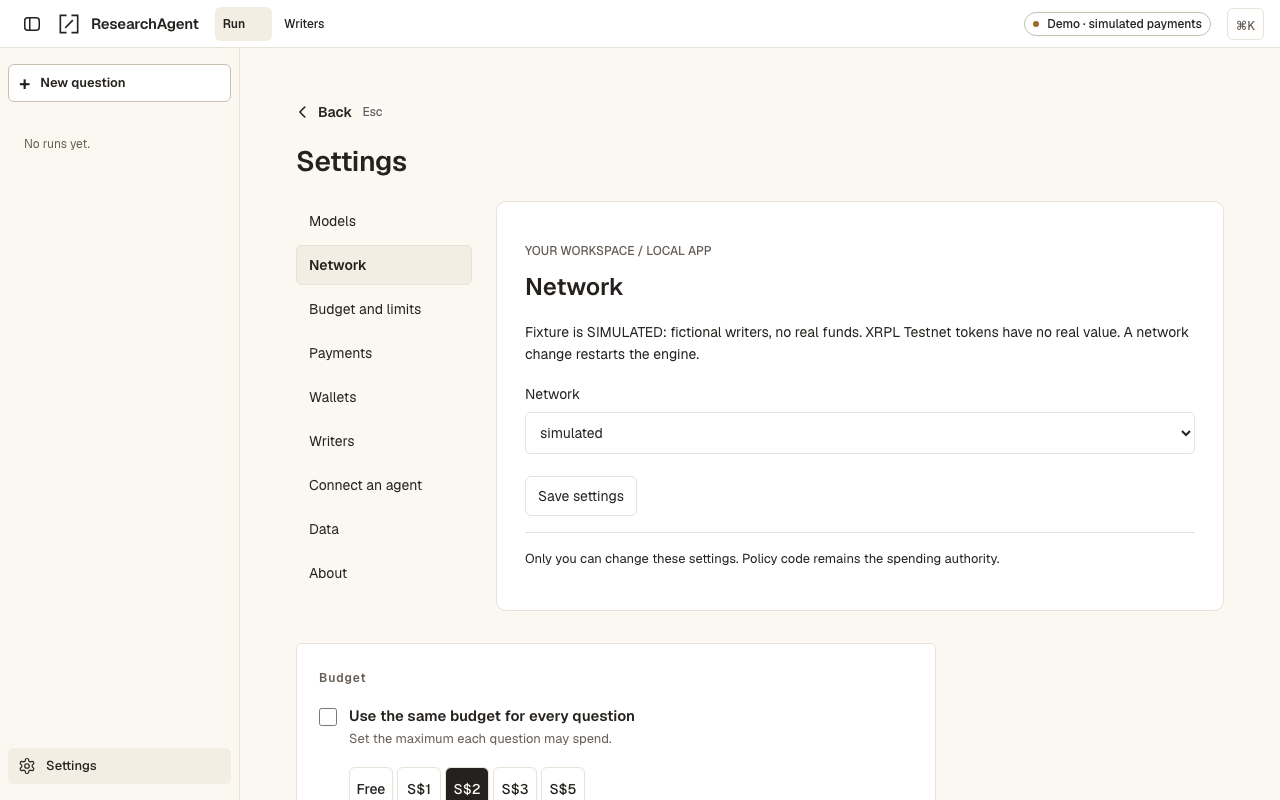
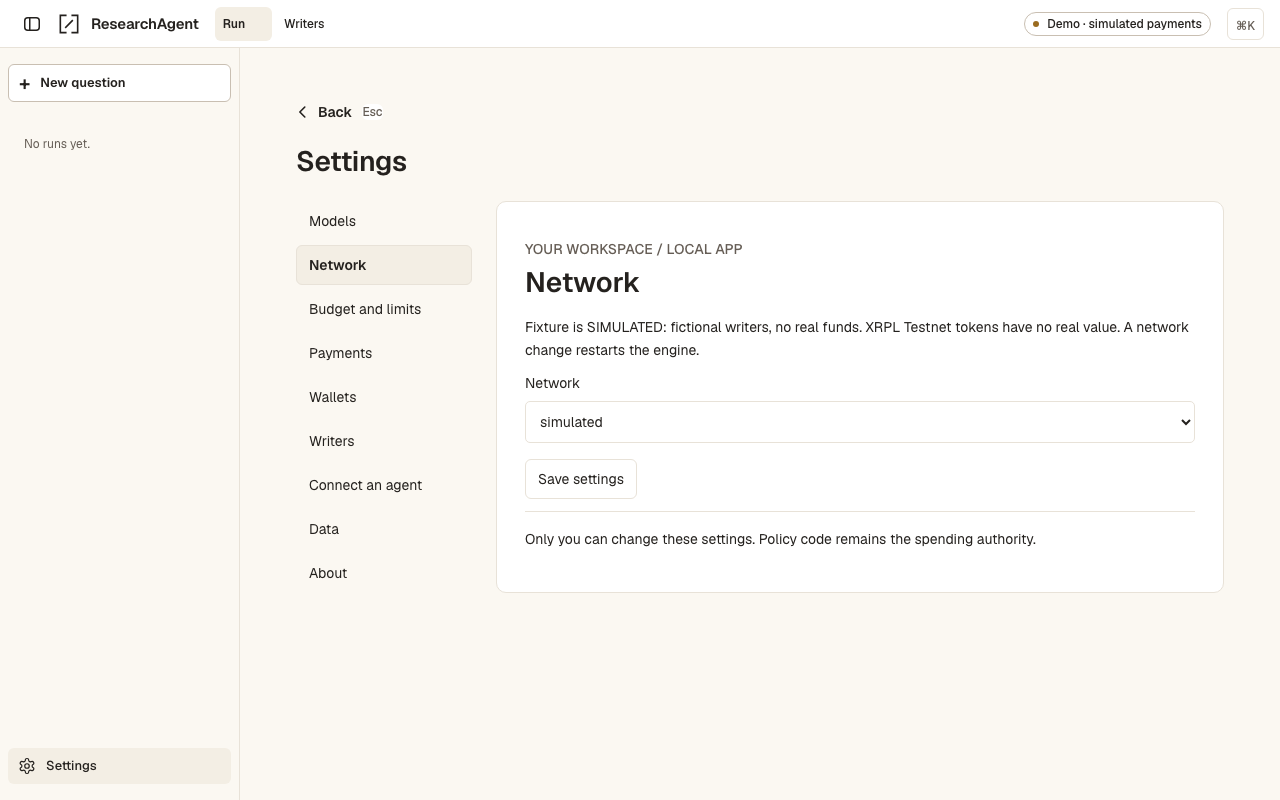
Verify shared Settings accessibility and owner audit integration

diff --git a/src/components/OwnerSettings.tsx b/src/components/OwnerSettings.tsx
@@ -1,14 +1,16 @@
 import { useEffect, useState, type ReactNode } from 'react'
 
 type Values = Record<string, string | number>
+type WalletRow = {name?:string; role?:string; address:string; balanceDrops?:string | null}
+type WriterRow = {name:string; address?:string; credential?:{status:string}}
 type Agent = {id:string; name:string; paused?:boolean; revoked?:boolean}
 type Desktop = { agents(): Promise<{agents:Agent[]}>; agentCreate(name:string,max:number,daily:number): Promise<unknown>; agentControl(id:string,op:string): Promise<unknown>; agentCopy(id:string): Promise<unknown>; state(): Promise<Record<string, unknown>>; save(v: unknown): Promise<void>; presence(a: string): Promise<{present: boolean | null; available: boolean}>; secret(a: string,v: string): Promise<{saved: boolean}>; test(): Promise<unknown>; wallets(): Promise<unknown>; receipts(id: string): Promise<unknown>; exportData(): Promise<unknown>; reset(c: string): Promise<void>; updates(): Promise<void> }
 const native = (window as unknown as { desktop?: Desktop }).desktop
 const sections = ['Models', 'Network', 'Budget and limits', 'Payments', 'Wallets', 'Writers', 'Connect an agent', 'Data', 'About']
 const keys = { LLM_API_KEY: 'compatible', DEEPSEEK_API_KEY: 'deepseek', OPENAI_API_KEY: 'openai', CLOUDFLARE_API_TOKEN: 'cloudflare', CLOUDFLARE_ACCOUNT_ID: 'cloudflare-account' }
 const repo = 'https://github.com/Collaboration95/theFastandtheFungible'
-export default function OwnerSettings({ children }: {children?: ReactNode}) {
-  const [agents,setAgents] = useState<Agent[]>([]), [section, setSection] = useState('Models'), [values, setValues] = useState<Values>({}), [state, setState] = useState<Record<string, unknown>>({}), [csrf, setCsrf] = useState(''), [status, setStatus] = useState('Loading owner settings…'), [presence, setPresence] = useState<Record<string,string>>({}), [account,setAccount] = useState('DEEPSEEK_API_KEY'), [secret,setSecret] = useState(''), [confirm,setConfirm] = useState(''), [receiptRun,setReceiptRun] = useState(''), [ledger,setLedger] = useState('Loading…'), [writers,setWriters] = useState('Loading…')
+export default function OwnerSettings({ children, notifications }: {children?: ReactNode; notifications?: ReactNode}) {
+  const [agents,setAgents] = useState<Agent[]>([]), [section, setSection] = useState('Models'), [values, setValues] = useState<Values>({}), [state, setState] = useState<Record<string, unknown>>({}), [csrf, setCsrf] = useState(''), [status, setStatus] = useState('Loading owner settings…'), [presence, setPresence] = useState<Record<string,string>>({}), [account,setAccount] = useState('DEEPSEEK_API_KEY'), [secret,setSecret] = useState(''), [confirm,setConfirm] = useState(''), [receiptRun,setReceiptRun] = useState(''), [ledger,setLedger] = useState<string | WalletRow[]>('Loading…'), [writers,setWriters] = useState<string | WriterRow[]>('Loading…')
   const onboarding = new URLSearchParams(location.search).has('onboarding')
   const call = async (path = '', body?: unknown) => {
     const response = await fetch('/api/settings' + path, { method: body === undefined ? 'GET' : 'POST', headers: { 'Content-Type': 'application/json', 'X-Settings-CSRF': csrf, 'X-Settings-UI': location.origin }, ...(body === undefined ? {} : {body: JSON.stringify(body)}) })
@@ -25,8 +27,8 @@ export default function OwnerSettings({ children }: {children?: ReactNode}) {
       } else { const s = await call(); if (!alive) return; setState(s); setValues(s.values); setCsrf(s.csrf); setPresence(s.keys) }
       if (alive) setStatus('Only you can change these settings. Policy code remains the spending authority.')
     })().catch(() => { if (alive) setStatus('Settings unavailable. Unlock Keychain or restart the local app, then retry.') })
-    void fetch('/api/ledger').then(r => r.json()).then(v => { if (alive) setLedger(v.rail === 'simulated' ? 'SIMULATED · fixture wallets have no ledger balance' : JSON.stringify(v.wallets, null, 2)) }).catch(() => setLedger('Balances unavailable while the engine recovers.'))
-    void fetch('/api/writers/status').then(r => { if (!r.ok) throw Error(); return r.json() }).then(v => { if (alive) setWriters(JSON.stringify(v.publishers, null, 2)) }).catch(() => setWriters('Writer credential status unavailable. Open Writers after the engine reconnects.'))
+    void fetch('/api/ledger').then(r => r.json()).then(v => { if (alive) setLedger(v.rail === 'simulated' ? 'SIMULATED · fixture wallets have no ledger balance' : v.wallets) }).catch(() => setLedger('Balances unavailable while the engine recovers.'))
+    void fetch('/api/writers/status').then(r => { if (!r.ok) throw Error(); return r.json() }).then(v => { if (alive) setWriters(v.publishers) }).catch(() => setWriters('Writer credential status unavailable. Open Writers after the engine reconnects.'))
     return () => { alive = false }
   // The owner surface loads once; secrets never enter persistent React state after save.
   // eslint-disable-next-line react-hooks/exhaustive-deps
@@ -42,13 +44,13 @@ export default function OwnerSettings({ children }: {children?: ReactNode}) {
     <section className="owner-panel" aria-labelledby="owner-heading"><p className="ra-caption">YOUR WORKSPACE / {native ? 'MACOS KEYCHAIN' : 'LOCAL APP'}</p><h2 id="owner-heading">{section}</h2>
     {section === 'Models' && <>{native && <><label className="owner-field">Research provider<select value={String(state.provider || 'deepseek')} onChange={e=>setState({...state,provider:e.target.value})}>{['deepseek','openai','openai-compatible'].map(p=><option key={p}>{p}</option>)}</select></label>{state.provider === 'openai-compatible' && <><label className="owner-field">API base URL<input value={String(state.baseUrl || '')} onChange={e=>setState({...state,baseUrl:e.target.value})} /></label><label className="owner-field">Model<input value={String(state.model || '')} onChange={e=>setState({...state,model:e.target.value})} /></label><label><input type="checkbox" checked={state.sameKeyDecisions === true} onChange={e=>setState({...state,sameKeyDecisions:e.target.checked})} /> Use compatible advisory decisions (UNCALIBRATED)</label></>}<button onClick={save}>Apply provider profile</button></>}<p>Saved credentials are masked. Keys and seeds never appear in exports or logs.</p><div className="owner-keys">{Object.entries(presence).map(([k,v]) => <p key={k}><b>{k.replaceAll('_',' ')}</b><br/>{v}</p>)}</div><label className="owner-field">Provider<select value={account} onChange={e=>setAccount(e.target.value)}>{Object.keys(keys).map(k=><option key={k}>{k}</option>)}</select></label><label className="owner-field">Replace key<input type="password" autoComplete="new-password" value={secret} onChange={e=>setSecret(e.target.value)} /></label><button disabled={!secret} onClick={()=>{ const value=secret; setSecret(''); action(async()=>{ if(native) { const r=await native.secret(keys[account as keyof typeof keys],value); if(!r.saved) throw Error('Keychain unavailable. Unlock and retry.'); setPresence({...presence,[account]:'••••••••'}) } else { await call('/key',{account,value}); setPresence({...presence,[account]:'••••••••'}) } },native ? 'Key saved in Keychain.' : 'Key saved in the local environment file. Restart to apply.') }}>Save key</button><button onClick={()=>action(async()=>{ if(native) { const r=await native.test() as {ok?:boolean}; if (!r.ok) throw Error('Provider test failed. Check Keychain and provider configuration.'); return } const response = await fetch('/api/providers/test', { method:'POST', headers:{'Content-Type':'application/json'}, body:'{}' }); const result = await response.json(); if (!result.ok) throw Error('Connection failed. Save credentials and restart the app, then retry.'); },'Connection test finished. See the native provider status for details.')}>Test connection</button></>}
     {section === 'Network' && <><p>Fixture is SIMULATED: fictional writers, no real funds. XRPL Testnet tokens have no real value. A network change restarts the engine.</p>{field('SETTLEMENT_RAIL','Network',['simulated','xrpl-testnet'])}</>}
-    {section === 'Budget and limits' && <><p>Human-only limits, in SGD cents. Changes are audited. A budget authorizes policy code to buy within these caps.</p>{field('MCP_MAX_BUDGET_MINOR','Per-call cap')}{field('MCP_DAILY_CAP_MINOR','Daily agent cap')}{field('WALLET_DAILY_CAP_MINOR','Wallet daily cap')}{children}<p>The per-prompt budget remains the authorization for each question.</p></>}
+    {section === 'Budget and limits' && <><p>Human-only limits, in SGD cents. Changes are audited. A budget authorizes policy code to buy within these caps.</p><div className="owner-caps">{field('MCP_MAX_BUDGET_MINOR','Per-call cap')}{field('MCP_DAILY_CAP_MINOR','Daily agent cap')}{field('WALLET_DAILY_CAP_MINOR','Wallet daily cap')}</div>{children}<p>The per-prompt budget remains the authorization for each question.</p></>}
     {section === 'Payments' && <><p>Testnet only · no real money. TEST-SGD is a test issued asset and needs a configured issuer and trustlines.</p>{field('ESCROW_MODE','Escrow mode',['key-reveal','payment'])}{field('ESCROW_ASSET','Escrow asset',['XRP','TEST-SGD'])}{field('ANCHOR_RAIL','Answer anchoring',['xrpl-testnet','off'])}</>}
-    {section === 'Wallets' && <><p>Public addresses and balances only. Seeds stay private.</p><pre>{ledger}</pre><button onClick={()=>action(async()=>{ setLedger(JSON.stringify(native ? await native.wallets() : await call('/faucet',{}),null,2)) },'Testnet faucet request finished.')}>Testnet faucet top-up</button><label className="owner-field">Run to verify<select value={receiptRun} onChange={e=>setReceiptRun(e.target.value)}><option value="">Choose a completed run</option>{((state.runs || []) as {runId:string; question:string}[]).map(r=><option key={r.runId} value={r.runId}>{r.question}</option>)}</select></label><button disabled={!receiptRun} onClick={()=>action(async()=>download(native ? await native.receipts(receiptRun) : await call('/receipts/' + encodeURIComponent(receiptRun)), 'receipts.json'),'Receipts downloaded.')}>Export receipts</button><p>Export a run’s receipts.json from its receipt panel for researchagent verify. Export everything in Data includes a bundle per run.</p></>}
-    {section === 'Writers' && <><p>No followed-writer list is configured. Available writers and XRPL Credential status are read-only here. Unavailable or unverified status never implies verification.</p><pre>{writers}</pre></>}
-    {section === 'Connect an agent' && <><p>Uses this version and your selected caps. The agent cannot edit Settings. This creates a separate local Testnet agent process.</p><pre>{command}</pre><button onClick={()=>action(()=>navigator.clipboard.writeText(command),'Command copied.')}>Copy Claude command</button>{native && <><h3>Connections to this desktop</h3><p>Independent agent allowances share the wallet cap. Secret configs copy directly from Keychain.</p>{['Claude Desktop','Claude Code','Cursor','Codex'].map(name=><button key={name} onClick={()=>action(async()=>{ await native.agentCreate(name, Number(values.MCP_MAX_BUDGET_MINOR), Number(values.MCP_DAILY_CAP_MINOR)); setAgents((await native.agents()).agents) },'Connection created.')}>Add {name}</button>)}{agents.map(agent=><div key={agent.id}><b>{agent.name}</b><p>{agent.revoked ? 'Revoked' : agent.paused ? 'Paused' : 'Active'}</p><button disabled={agent.revoked} onClick={()=>action(()=>native.agentCopy(agent.id),'Private config copied. Protect your clipboard.')}>Copy config</button>{['pause','resume','revoke'].map(op=><button key={op} disabled={agent.revoked} onClick={()=>action(async()=>{ await native.agentControl(agent.id,op); setAgents((await native.agents()).agents) },'Connection updated.')}>{op}</button>)}</div>)}</>}</>}
+    {section === 'Wallets' && <><p>Public addresses and balances only. Seeds stay private.</p>{typeof ledger === 'string' ? <p>{ledger}</p> : <table className="owner-table"><thead><tr><th>Wallet</th><th>Address</th><th>XRP balance</th></tr></thead><tbody>{ledger.map(w=><tr key={w.address}><td>{w.name || w.role || 'Wallet'}</td><td className="owner-address">{w.address}</td><td>{w.balanceDrops == null ? 'Unavailable' : (Number(w.balanceDrops)/1000000).toLocaleString()}</td></tr>)}</tbody></table>}<button onClick={()=>action(async()=>{ if (native) setLedger(await native.wallets() as WalletRow[]); else { await call('/faucet',{}); setLedger('Faucet accepted the request. Reopen Settings to refresh validated balances.') } },'Testnet faucet request finished.')}>Testnet faucet top-up</button><label className="owner-field">Run to verify<select value={receiptRun} onChange={e=>setReceiptRun(e.target.value)}><option value="">Choose a completed run</option>{((state.runs || []) as {runId:string; question:string}[]).map(r=><option key={r.runId} value={r.runId}>{r.question}</option>)}</select></label><button disabled={!receiptRun} onClick={()=>action(async()=>download(native ? await native.receipts(receiptRun) : await call('/receipts/' + encodeURIComponent(receiptRun)), 'receipts.json'),'Receipts downloaded.')}>Export receipts</button><p>Export a run’s receipts.json from its receipt panel for researchagent verify. Export everything in Data includes a bundle per run.</p></>}
+    {section === 'Writers' && <><p>No followed-writer list is configured. Available writers and XRPL Credential status are read-only here. Unavailable or unverified status never implies verification.</p>{typeof writers === 'string' ? <p>{writers}</p> : <table className="owner-table"><thead><tr><th>Writer</th><th>XRPL Credential</th></tr></thead><tbody>{writers.map(w=><tr key={w.name}><td>{w.name}</td><td>{w.credential?.status || 'unverified'}</td></tr>)}</tbody></table>}</>}
+    {section === 'Connect an agent' && <><p>Uses this version and your selected caps. The agent cannot edit Settings. This creates a separate local Testnet agent process.</p><pre tabIndex={0} aria-label="Claude installation command">{command}</pre><button onClick={()=>action(()=>navigator.clipboard.writeText(command),'Command copied.')}>Copy Claude command</button>{native && <><h3>Connections to this desktop</h3><p>Independent agent allowances share the wallet cap. Secret configs copy directly from Keychain.</p>{['Claude Desktop','Claude Code','Cursor','Codex'].map(name=><button key={name} onClick={()=>action(async()=>{ await native.agentCreate(name, Number(values.MCP_MAX_BUDGET_MINOR), Number(values.MCP_DAILY_CAP_MINOR)); setAgents((await native.agents()).agents) },'Connection created.')}>Add {name}</button>)}{agents.map(agent=><div key={agent.id}><b>{agent.name}</b><p>{agent.revoked ? 'Revoked' : agent.paused ? 'Paused' : 'Active'}</p><button disabled={agent.revoked} onClick={()=>action(()=>native.agentCopy(agent.id),'Private config copied. Protect your clipboard.')}>Copy config</button>{['pause','resume','revoke'].map(op=><button key={op} disabled={agent.revoked} onClick={()=>action(async()=>{ await native.agentControl(agent.id,op); setAgents((await native.agents()).agents) },'Connection updated.')}>{op}</button>)}</div>)}</>}</>}
     {section === 'Data' && <><p>Storage: {String(state.storage || 'Application Support/ResearchAgent')}</p><button onClick={()=>action(async()=>download(native ? await native.exportData() : await call('/export'),'researchagent-export.json'),'Export downloaded.')}>Export everything</button><p>Reset preferences preserves payment journals, receipts and wallet seeds for recovery.</p><label className="owner-field">Type RESET SETTINGS<input value={confirm} onChange={e=>setConfirm(e.target.value)} /></label><button disabled={confirm !== 'RESET SETTINGS'} onClick={()=>action(()=>native ? native.reset(confirm) : call('/reset',{confirmation:confirm}),'Settings reset. Restart to apply.')}>Reset settings</button></>}
-    {section === 'About' && <><p>ResearchAgent {version}</p><p>A neutral search engine for agent-readable expertise, with a wallet.</p><a href={`${repo}/releases/tag/v${version}`} target="_blank" rel="noreferrer">Release notes</a><p>MIT licence · Electron, React and XRPL dependencies retain their own licences.</p><button onClick={()=>action(async()=>{ if(native) await native.updates(); else window.open(`${repo}/releases`,'_blank','noopener') },'Update check opened.')}>Check for updates</button></>}
+    {section === 'About' && <><p>ResearchAgent {version}</p><p>A neutral search engine for agent-readable expertise, with a wallet.</p><a href={`${repo}/releases/tag/v${version}`} target="_blank" rel="noreferrer">Release notes</a><p>MIT licence · Electron, React and XRPL dependencies retain their own licences.</p><button onClick={()=>action(async()=>{ if(native) await native.updates(); else window.open(`${repo}/releases`,'_blank','noopener') },'Update check opened.')}>Check for updates</button>{notifications}</>}
     {['Network','Budget and limits','Payments'].includes(section) && <button className="owner-save" onClick={save}>Save settings</button>}
     <p role="status" className="owner-status">{status}</p></section>
   </div>

diff --git a/src/fixtures/wpui.test.tsx b/src/fixtures/wpui.test.tsx
@@ -40,6 +40,8 @@ function stubBrowser(onRun: (body: Record<string, unknown>) => void) {
     const body = init?.body ? JSON.parse(String(init.body)) : undefined
     calls.push({ path, body })
     const json = (data: unknown, status = 200) => ({ ok: status < 400, status, json: async () => data })
+    if (path === '/api/settings') return json({csrf:'fixture-csrf', values:{MCP_MAX_BUDGET_MINOR:0,MCP_DAILY_CAP_MINOR:0,WALLET_DAILY_CAP_MINOR:2000,SETTLEMENT_RAIL:'simulated',ESCROW_MODE:'key-reveal',ESCROW_ASSET:'XRP',ANCHOR_RAIL:'off'},keys:{},version:'1.0.0-rc.2'})
+    if (path === '/api/settings/prompt-budget') return json({saved:true})
     if (path === '/api/health') return json({ status: 'ok', labels: exampleRun.labels, faults: false })
     if (path === '/api/scope') return json(body.clarify === 'never' ? { ...uc2Scope, questions: [], label: 'fixture · scope-fixture' } : { ...uc2Scope, label: 'fixture · scope-fixture' })
     if (path === '/runs') { onRun(body); return json({ ...paidStoryRun, question: body.question }, 201) }
@@ -382,23 +384,27 @@ describe('budget slider and the universal budget in Settings', () => {
     expect(onAsk).toHaveBeenCalledWith({ question: 'Q?', budgetMinor: 45 })
   })
 
-  it('Settings: the tick box turns the universal budget on; its slider is off until then', () => {
+  it('Settings: the tick box turns the universal budget on; its slider is off until then', async () => {
+    const calls = stubBrowser(() => {})
     const onUniversal = vi.fn(), onBudget = vi.fn()
     const { rerender } = render(<Settings universal={false} budgetMinor={200} settlement="SIMULATED SGD · no real funds" notify={false} onBack={() => {}} onNotify={() => {}} onUniversal={onUniversal} onBudget={onBudget} />)
+    fireEvent.click(screen.getByRole('button', {name:'Budget and limits'}))
     expect((screen.getByRole('spinbutton', { name: 'Custom budget (S$)' }) as HTMLInputElement).disabled).toBe(true)
-    fireEvent.click(screen.getByRole('checkbox', { name: /Use the same budget/ }))
+    await act(async () => { fireEvent.click(screen.getByRole('checkbox', { name: /Use the same budget/ })) })
     expect(onUniversal).toHaveBeenCalledWith(true)
     rerender(<Settings universal budgetMinor={200} settlement="SIMULATED SGD · no real funds" notify={false} onBack={() => {}} onNotify={() => {}} onUniversal={onUniversal} onBudget={onBudget} />)
-    fireEvent.change(screen.getByRole('spinbutton', { name: 'Custom budget (S$)' }), { target: { value: '0.10' } })
+    await act(async () => { fireEvent.change(screen.getByRole('spinbutton', { name: 'Custom budget (S$)' }), { target: { value: '0.10' } }) })
     expect(onBudget).toHaveBeenCalledWith(10)
+    expect(calls.filter(c => c.path === '/api/settings/prompt-budget').at(-1)?.body).toEqual({budgetMinor:10,universal:true})
   })
 
   it('Settings opens from the sidebar, and the universal budget reaches Home', async () => {
     stubBrowser(() => {})
     render(<App />)
     fireEvent.click(screen.getByRole('button', { name: 'Settings' }))
-    fireEvent.click(screen.getByRole('checkbox', { name: /Use the same budget/ }))
-    fireEvent.change(screen.getByRole('spinbutton', { name: 'Custom budget (S$)' }), { target: { value: '0.95' } })
+    fireEvent.click(screen.getByRole('button', {name:'Budget and limits'}))
+    await act(async () => { fireEvent.click(screen.getByRole('checkbox', { name: /Use the same budget/ })) })
+    await act(async () => { fireEvent.change(screen.getByRole('spinbutton', { name: 'Custom budget (S$)' }), { target: { value: '0.95' } }) })
     fireEvent.click(screen.getByRole('button', { name: 'New question' }))
     expect(screen.queryByRole('slider')).toBeNull()
     expect(screen.getByRole('button', { name: 'S$0.95' })).toBeTruthy()

diff --git a/src/components/Settings.tsx b/src/components/Settings.tsx
@@ -22,9 +22,15 @@ export default function Settings({ universal, budgetMinor, notify, onBack, onUni
     <button type="button" className="ra-back" onClick={onBack}><svg viewBox="0 0 20 20" aria-hidden="true"><path d="M12 4.5L6.5 10l5.5 5.5" /></svg>Back<kbd>Esc</kbd></button>
     <h1>Settings</h1>
     {error && <p role="alert">{error}</p>}
-    <OwnerSettings>
+    <OwnerSettings notifications={<section className="ra-set" aria-labelledby="ra-set-notify">
+      <h2 id="ra-set-notify">Notifications</h2>
+      <label className="ra-set-row">
+        <input type="checkbox" checked={notify} onChange={event => onNotify(event.target.checked)} />
+        <span><b>Tell me when it’s done</b><small>A desktop notification when a run finishes in a background tab.</small></span>
+      </label>
+    </section>}>
     <section className="ra-set" aria-labelledby="ra-set-budget">
-      <h2 id="ra-set-budget">Budget</h2>
+      <h3 id="ra-set-budget">Per-prompt budget</h3>
       <label className="ra-set-row">
         <input type="checkbox" checked={universal} onChange={event => void audit(budgetMinor, event.target.checked)} />
         <span><b>Use the same budget for every question</b><small>Set the maximum each question may spend.</small></span>
@@ -34,13 +40,7 @@ export default function Settings({ universal, budgetMinor, notify, onBack, onUni
 
       </div>
     </section>
-    <section className="ra-set" aria-labelledby="ra-set-notify">
-      <h2 id="ra-set-notify">Notifications</h2>
-      <label className="ra-set-row">
-        <input type="checkbox" checked={notify} onChange={event => onNotify(event.target.checked)} />
-        <span><b>Tell me when it’s done</b><small>A desktop notification when a run finishes in a background tab.</small></span>
-      </label>
-    </section>
+
     </OwnerSettings>
   </main>
 }

diff --git a/src/App.tsx b/src/App.tsx
@@ -147,16 +147,17 @@ export default function App() {
     } catch { setError('Stop the run before deleting it.') }
   }
   const newQuestion = useCallback(() => {
-    const url = new URL(window.location.href); url.searchParams.delete('run'); window.history.replaceState(null, '', url)
+    const url = new URL(window.location.href); url.searchParams.delete('run'); url.searchParams.delete('settings'); url.searchParams.delete('onboarding'); window.history.replaceState(null, '', url)
     setTab('run'); setDraft(''); setReceipt(undefined); setScreen('home'); setPassage(undefined); setWork(false); setThread([]); setPending(undefined)
   }, [])
   const openSettings = () => {
+    setTab('run')
     const url = new URL(window.location.href); url.searchParams.delete('run'); window.history.replaceState(null, '', url)
     if (screen !== 'settings') setBackTo(screen === 'run' ? 'run' : screen === 'chat' ? 'chat' : 'home')
     if ((window as unknown as {desktop?:unknown}).desktop) { const url = new URL(location.href); url.searchParams.set('settings','1'); history.replaceState(null,'',url) }
     setScreen('settings'); setPassage(undefined); setWork(false)
   }
-  const closeSettings = () => { if (backTo === 'run' && run) void openRun(run.runId); else if (backTo === 'chat' && thread.length) setScreen('chat'); else setScreen('home') }
+  const closeSettings = () => { const url = new URL(location.href); url.searchParams.delete('settings'); url.searchParams.delete('onboarding'); history.replaceState(null,'',url); if (backTo === 'run' && run) void openRun(run.runId); else if (backTo === 'chat' && thread.length) setScreen('chat'); else setScreen('home') }
 
   const refreshPast = useCallback(() => { void listPastRuns().then(setPast).catch(() => { /* the sidebar keeps its last list */ }) }, [])
   const phase = run?.phase

diff --git a/src/styles.css b/src/styles.css
@@ -801,7 +801,7 @@ html[data-record=true] .ra-env { display: block; }
 .owner-settings nav button[aria-current] { background: var(--hover, #f3eee4); border-color: var(--rule); font-weight: 600; }
 .owner-panel, .owner-welcome { background: var(--surface, white); border: 1px solid var(--rule); padding: 28px; border-radius: 10px; min-width: 0; }
 .owner-welcome { grid-column: 1/-1; }
-.owner-panel h2 { margin: 8px 0 20px; font-size: 24px; }
+.owner-panel h2 { margin: 8px 0 20px; font-size: 28px; }
 .owner-panel p { line-height: 1.6; margin: 12px 0; }
 .owner-field { display: flex; flex-direction: column; gap: 8px; margin: 18px 0; font-size: 14px; }
 .owner-field input, .owner-field select { padding: 10px; border: 1px solid var(--rule); border-radius: 5px; background: white; color: var(--ink); font: inherit; width: 100%; }
@@ -815,3 +815,10 @@ html[data-record=true] .ra-env { display: block; }
 .owner-keys { display: grid; grid-template-columns: repeat(2,minmax(0,1fr)); gap: 8px 24px; font-size: 12px; }
 .owner-keys p { margin: 4px 0; overflow-wrap: anywhere; }
 .owner-panel .ra-set { padding: 12px 0; border: 0; margin-top: 16px; }
+.owner-table { border-collapse: collapse; width: 100%; font-size: 13px; margin: 20px 0; text-align: left; }
+.owner-table th, .owner-table td { padding: 10px 8px; border-bottom: 1px solid var(--rule); vertical-align: top; }
+.owner-table th { font-weight: 600; }
+.owner-address { overflow-wrap: anywhere; font-family: var(--f-mono, monospace); font-size: 12px; }
+.owner-caps { display: grid; grid-template-columns: repeat(3,minmax(0,1fr)); gap: 16px; }
+.owner-panel .ra-set h3 { font-size: 15px; margin: 0 0 12px; }
+@media(max-width: 800px) { .owner-caps { grid-template-columns: 1fr; } }

diff --git a/tests/routes.test.ts b/tests/routes.test.ts
@@ -14,7 +14,7 @@ it.each([false, true])('preserves every pre-#285 route and adds wallet controls,
   const api = await createApiApp({ dbPath: ':memory:' })
   try {
     const app = api.app as Express & { router: { stack: Layer[] } }
-    expect(routeTable(app.router.stack).sort()).toEqual([...(faults ? before : before.filter(([, path]) => path !== '/api/demo/faults')), ['GET', '/api/health'], ['GET', '/api/metrics'], ['GET', '/api/wallet/status'], ['POST', '/api/wallet/pause'], ['POST', '/api/spending/pause'], ['POST', '/v1/ask'],
+    expect(routeTable(app.router.stack).sort()).toEqual([...(faults ? before : before.filter(([, path]) => path !== '/api/demo/faults')), ['GET', '/api/health'], ['GET','/api/writers/status'], ['GET','/api/settings'], ['POST','/api/settings'], ['POST','/api/settings/prompt-budget'], ['POST','/api/settings/key'], ['GET','/api/settings/receipts/:id'], ['GET','/api/settings/runs'], ['GET','/api/settings/export'], ['POST','/api/settings/reset'], ['POST','/api/settings/faucet'], ['GET', '/api/metrics'], ['GET', '/api/wallet/status'], ['POST', '/api/wallet/pause'], ['POST', '/api/spending/pause'], ['POST', '/v1/ask'],
       ['GET', '/api/audit/receipts.csv'], ['GET', '/api/audit/receipts.jsonl'], ['GET', '/api/audit/verify'], ['POST', '/api/verify'], ['POST', '/api/providers/test'], ['GET', '/runs/:id/intents/:intentId/key-reveal-proof.json'], ['GET', '/runs/:id/receipts.json'], ['GET', '/runs/:id/report.json']].sort())
   } finally { await api.close(); vi.unstubAllEnvs() }
 })

diff --git a/server/owner-settings.ts b/server/owner-settings.ts
@@ -20,7 +20,7 @@ export function ownerSettingsRouter({ store, payer }: ApiContext) {
   try { pending = OwnerSettings.partial().parse(JSON.parse(readFileSync(file, 'utf8'))) } catch { /* Missing or invalid settings never grant authority. */ }
   // Browser metadata is forwarded only by the local UI proxy. Agent bearers never acquire owner authority.
   router.use('/api/settings', (req, res, next) => {
-    const origin = (req.get('Origin') || req.get('X-Settings-UI')), expected = config.RA_WEB_ORIGIN || `http://${req.get('Host')}`
+    const origin = (req.get('Origin') || req.get('X-Settings-UI')), expected = config.RA_WEB_ORIGIN || req.get('X-Settings-UI') || `http://${req.get('Host')}`
     let localOrigin = false
     try { localOrigin = Boolean(origin && new URL(origin).protocol === 'http:' && loopback(new URL(origin).hostname)) } catch { /* deny malformed origin */ }
     if (!localOrigin || res.locals.agent || !loopback(req.socket.remoteAddress?.replace(/^::ffff:/, '') || '') || origin !== expected || req.get('Sec-Fetch-Site') !== 'same-origin') return void res.sendStatus(403)

diff --git a/playwright.settings.config.ts b/playwright.settings.config.ts
@@ -1,0 +1,5 @@
+import { defineConfig } from '@playwright/test'
+import base from './playwright.config'
+// Build explicitly before this evidence run so build time does not consume the
+// unchanged 45-second server-start gate on a busy shared workstation.
+export default defineConfig({ ...base, testMatch: ['settings.spec.ts'], webServer: { ...(base.webServer as object), command: 'node scripts/prepare-e2e-store.mjs && npm run demo' } })

diff --git a/docs/evidence/settings/README.md b/docs/evidence/settings/README.md
@@ -2,7 +2,7 @@
 
 1280×800 Playwright Chromium screenshots, fixture engine, synthetic writers,
 SIMULATED settlement. No live provider, faucet, Keychain, installed DMG or signed
-artifact acceptance is claimed. `npx playwright test tests/settings.spec.ts`
+artifact acceptance is claimed. `npm run build && npx playwright test --config playwright.settings.config.ts`
 checks all nine sections with axe (no serious/critical violations) and captures
 onboarding. `tests/owner-settings.test.ts` checks browser metadata, CSRF, masking,
 invalid input, audit entries and deferred configuration loading.
@@ -17,9 +17,24 @@ Reset means reset preferences: payment journals, seeds and receipts are preserve
 Integration follow-up: the reserved `mcp/app.ts` proxy currently strips browser
 metadata and CSRF headers. It must forward Origin, Sec-Fetch-Site,
 X-Settings-UI and X-Settings-CSRF only after its existing local Host/Origin checks,
-and configure RA_WEB_ORIGIN to its OS-assigned web origin. Until then the
+and retain its local Host/Origin checks. RA_WEB_ORIGIN can pin the UI origin. Until then the
 zero-clone app correctly refuses owner Settings operations with HTTP 403.
 No mcp files or IOU payment paths were changed in this lane.
 
 Native recovery IPC and update checks remain available without engine startup.
 Developer ID signing remains owner work; ci-signing.mjs and desktop.yml unchanged.
+
+Shared-host diagnostics: the first default-three-worker `check:fast` attempt
+hit existing 5 s timeouts in verify-answer (four cases) and audit CLI cases
+(three), plus other CLI tests. It was stopped after failures were established.
+A new run uses `RA_TEST_WORKERS=1`; default concurrency remains three. No test,
+assertion, timeout, spending gate or leak threshold was relaxed. A later combined
+build/browser run hit the unchanged 45 s server-start limit; an explicit build
+followed by the dedicated settings config avoids charging compile time to that
+limit. These are tooling observations, not evidence of ledger/provider failures.
+
+The final accessibility pass exposed a keyboard-inaccessible overflow region in
+the writer data view. Wallets and writers now use labelled tables; the command
+region is focusable. The axe rule was retained. The optional MCP-lane handoff is
+an unapplied patch, verified with `git apply --check`; it does not modify the
+reserved checkout files.

diff --git a/docs/BUILDER-FEEDBACK.md b/docs/BUILDER-FEEDBACK.md
@@ -838,6 +838,15 @@ These are observations from the 7 Nov review of `421f5f9f`, not fresh L4 network
 | B27 · 2026-11-07 | MCP tooling | Observed fresh-cache 21.4 MB tgz takes 56.5 s to initialize; review §0/§5 in retained extract. Client timeout risk is an inference. | Retry with warm cache; round-3 warm measurement about 11 s. | Bundle stdio separately and defer app UI dependencies; measure clean-cache startup. | medium | Startup availability risk on either rail; no settlement failure observed. |
 | B28 · 2026-11-07 | Faucet | Observed wallet setup 24.3 s MCP / 19.1 s app; prior README reports 17 s. Evidence: retained review §0/§5; `docs/evidence/round3-a/README.md`. | Persist Testnet wallets and show setup progress; bounded retries. | Document faucet timing and separate provisioning from initialize. | medium | Testnet-only funding; no inference about mainnet funding. |
 | B29 · 2026-11-07 | Devcontainer CI | Observed nightly Testnet jobs green 6/7 Nov, about 130 s job / 43.9 s purchase; evidence: retained review §0/§5, `.github/workflows/codespace-testnet.yml`. | Use devcontainers/ci as the Codespace substitute, labelled explicitly. | Keep validated-hash CI evidence; measure actual Codespace separately. | low | No mainnet measurement; CI is not interactive Codespace acceptance. |
+## 2026-11-07: Shared-workstation acceptance contention (tooling)
+
+- Class: observed local fixture test timeouts, not a Testnet incident.
+- Evidence: `docs/evidence/settings/README.md`; default-worker verifier/audit CLI tests exceeded existing 5 s limits; combined Playwright build/start exceeded the unchanged 45 s startup limit.
+- Workaround: opt-in `RA_TEST_WORKERS=1` (default remains three); compile before running the settings evidence config. Assertions and timeouts unchanged.
+- Suggested fix: run acceptance on a quiet host and separate build time from server readiness in evidence runners.
+- Severity: medium for local release verification.
+- Mainnet impact: none established; no mainnet request or payment was made.
+
 
 ### 2026-11-07 — Cold judge-command latency (observed tooling friction)
 
